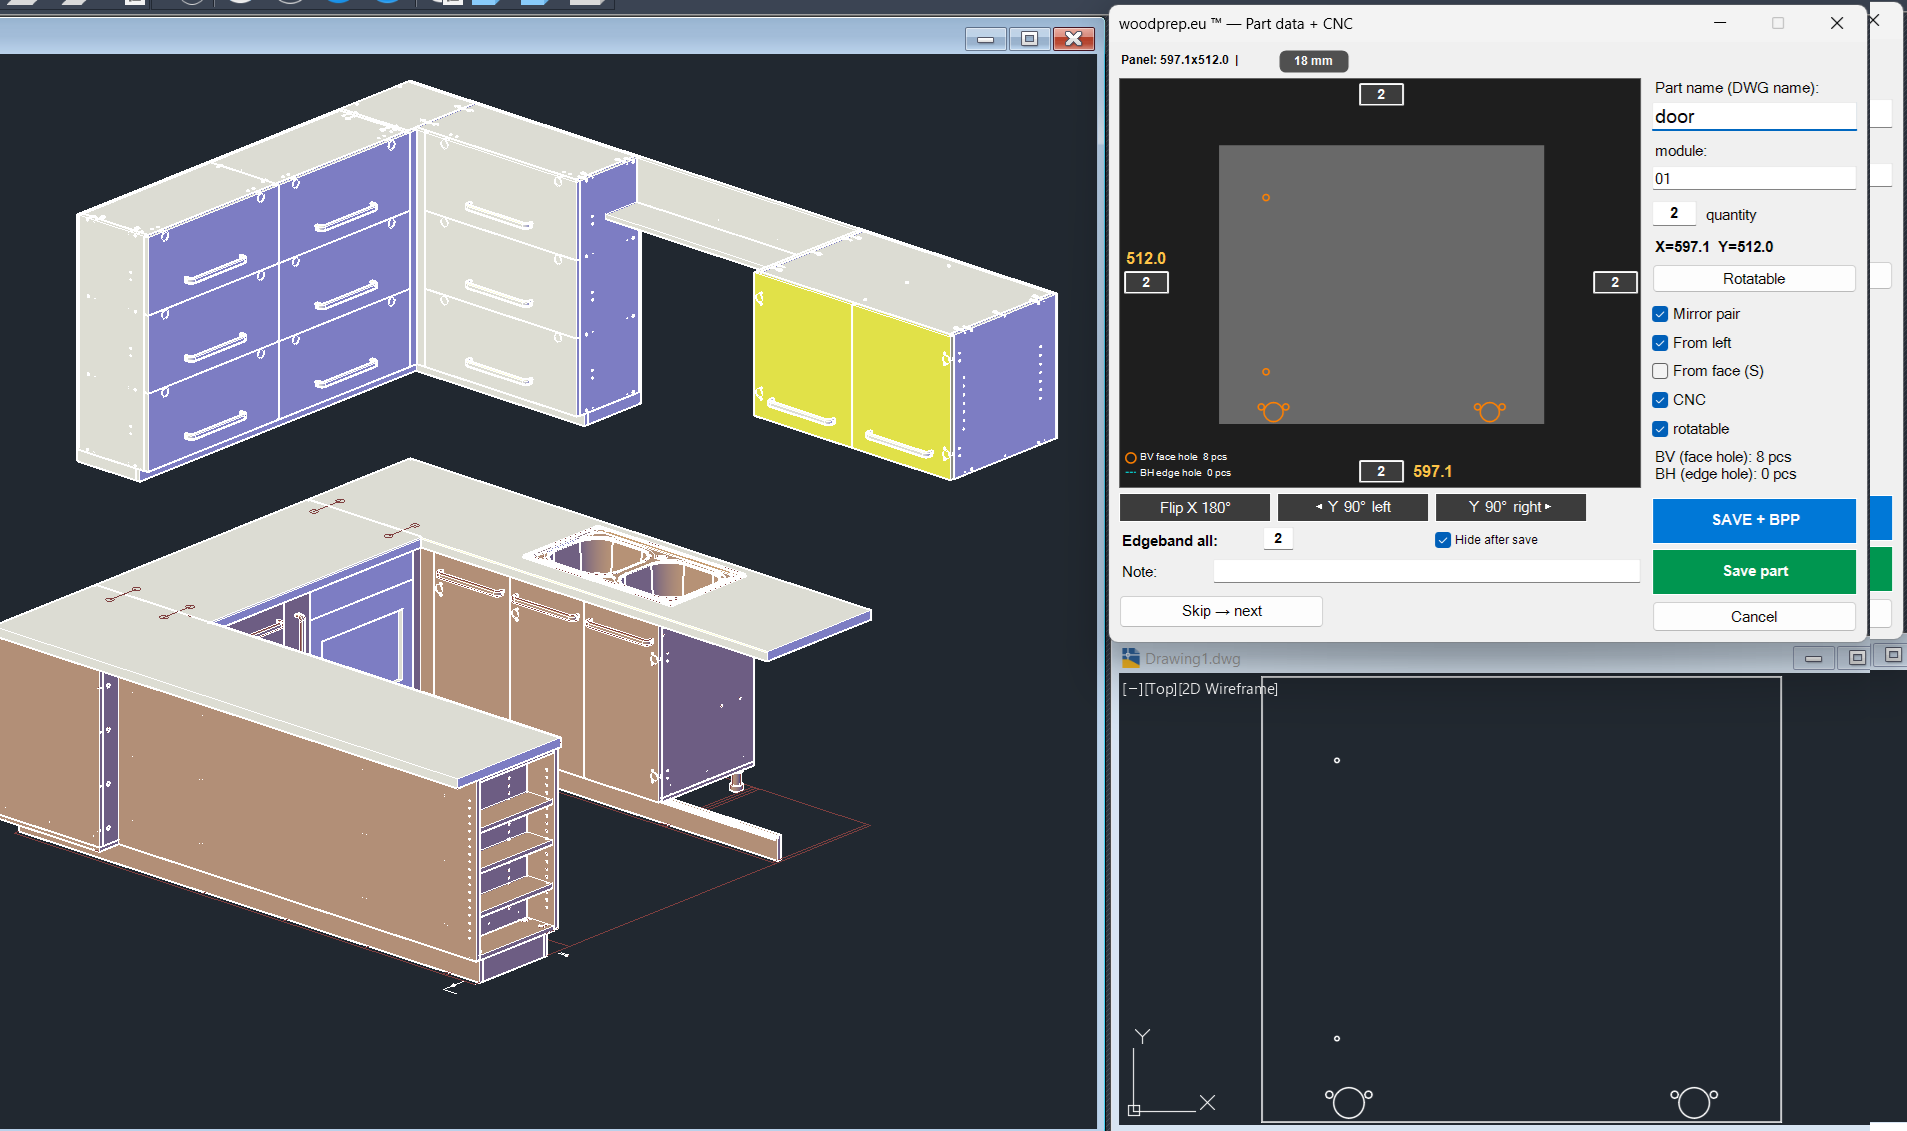
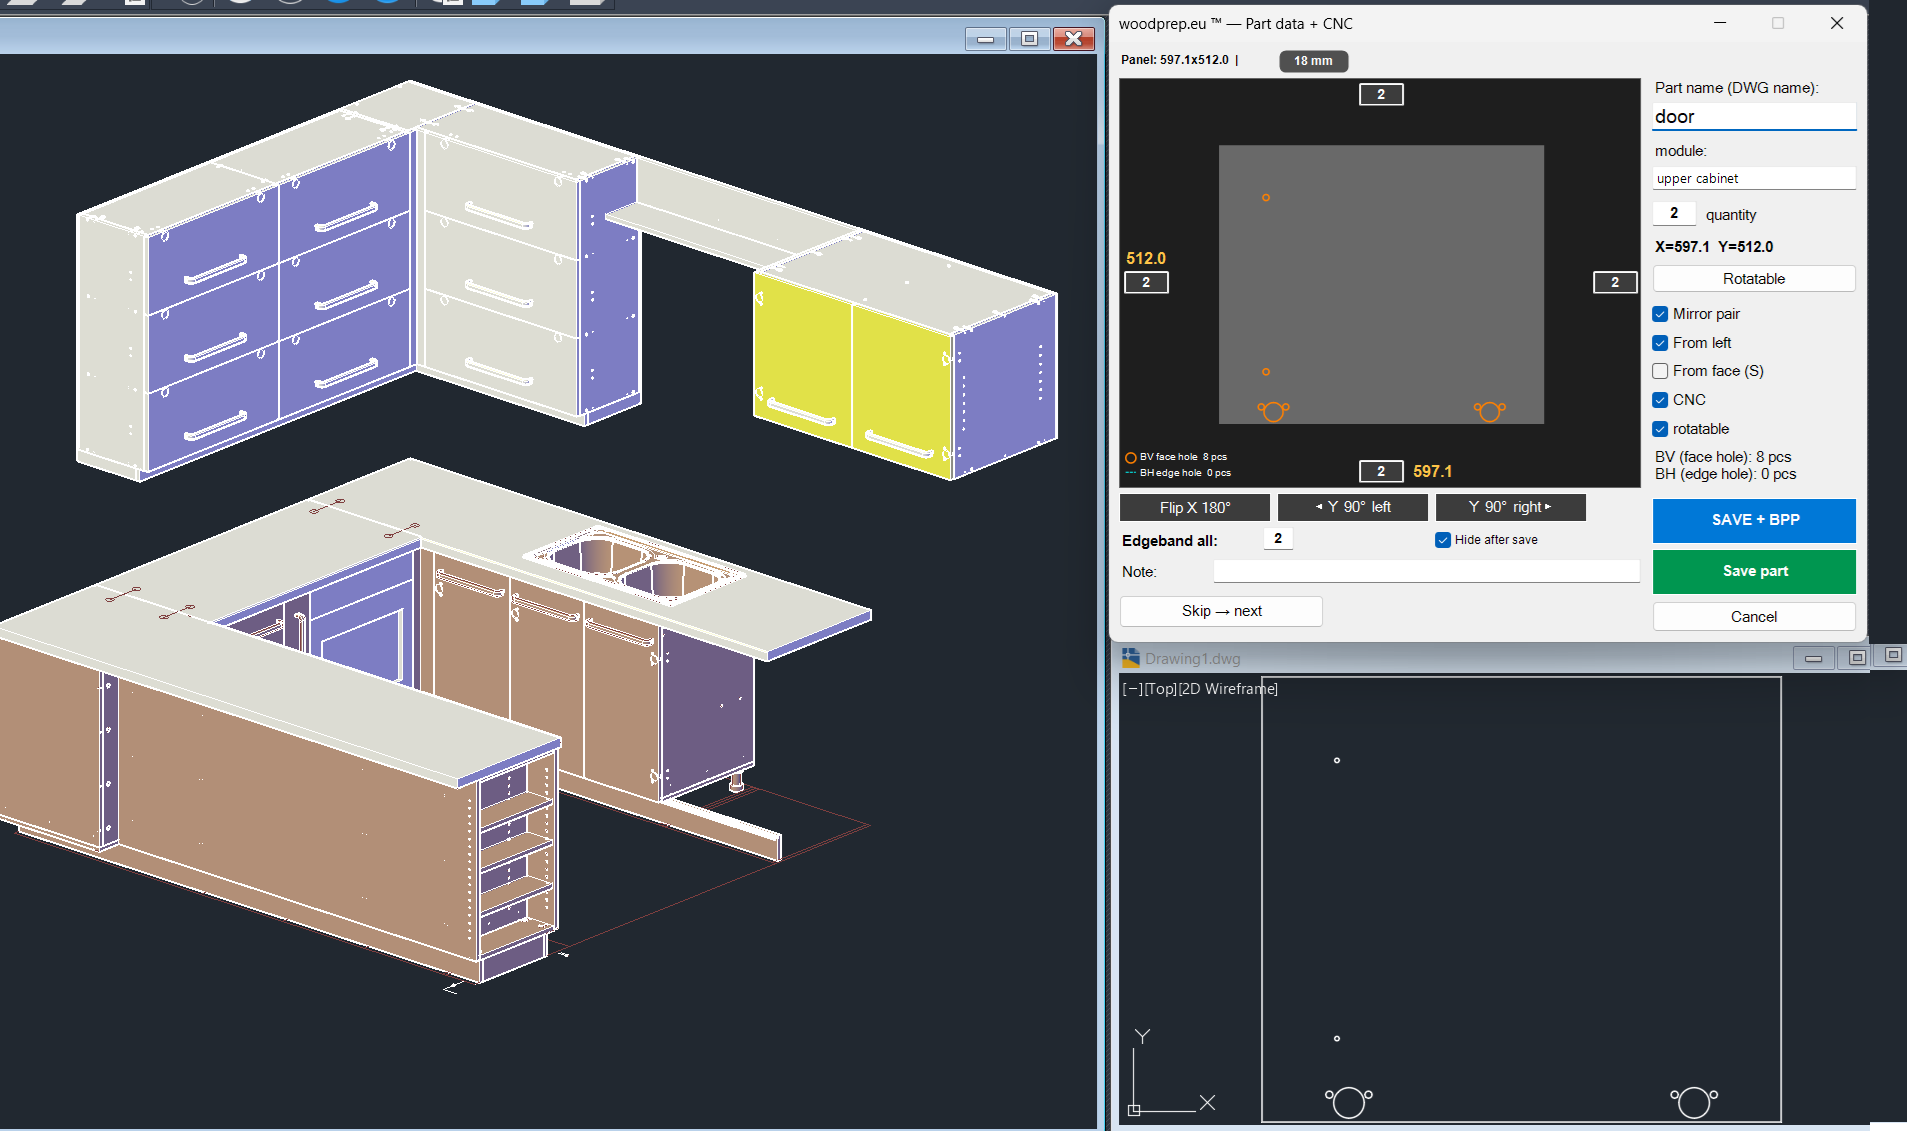
j

Changed region(s): [[0.9591, 0.0, 1.0, 0.588], [0.8663, 0.1547, 0.8972, 0.1857]]

diff --git a/story.html b/story.html
@@ -71,7 +71,11 @@ nav{position:sticky;top:0;z-index:20;display:flex;justify-content:space-between;
 .l-pick img.proc{inset:6px;width:calc(100% - 12px);height:calc(100% - 12px)}
 .l-pick .ee26pop{filter:drop-shadow(0 20px 40px rgba(0,0,0,.6))}
 .l-pick .excel{background:#fff;border-radius:6px;transition:opacity .35s}
-.l-pick img.wide{height:auto;top:50%;bottom:auto;transform:translateY(-50%)}
+.l-pick .xlbox{position:absolute;left:18px;right:18px;top:50%;transform:translateY(-50%);opacity:0;background:#fff;border-radius:6px;transition:opacity .35s}
+.l-pick .xlbox img{position:relative;inset:auto;display:block;width:100%;height:auto;opacity:1}
+.l-pick .xlbox img.xlfull{position:absolute;left:0;top:0;clip-path:inset(0 0 41.3% 0)}
+.xlclick{position:absolute;left:63.6%;top:-1.5%;width:14.9%;height:14.5%;border:3px solid #ffd23f;border-radius:12px;
+     opacity:0;transform:scale(1.6);transition:opacity .25s, transform .25s;box-shadow:0 0 18px rgba(255,210,63,.6)}
 .l-pick .proc{transition:opacity .35s}
 .l-photo{background:#0b0b12}
 .l-photo img{position:absolute;inset:0;width:100%;height:100%;object-fit:contain;opacity:0;transition:opacity .35s}
@@ -169,13 +173,17 @@ nav{position:sticky;top:0;z-index:20;display:flex;justify-content:space-between;
         <!-- 2026-11-16: CABINET-beállítás (006) → feldolgozás: az ajtók sárgán, EE26 (007)
              → név + élzárás „2" (008) → Excel. A 007/008 fejlécéből az ügyfélnév kitakarva. -->
         <!-- „végleges" (2026-11-16 este): 011 = CABINET „upper cabinet" → 007 → 008 → 012 (a mentett
-             lapok eltűnnek a rajzból) → 013 (csak ennek a szekrénynek az Excelje) → a teljes konyha -->
+             lapok eltűnnek a rajzból) → 013 (csak ennek a szekrénynek az Excelje) -->
         <img class="ee26pop" src="story/cabinet-beallitas-felso.png" alt="CABINET settings: module name, find identical parts, mirror pairs, select the parts">
         <img class="proc" src="story/feldolgozas-1.png" alt="Processing: both doors highlighted as a mirror pair, the WoodPrep part window">
         <img class="proc" src="story/feldolgozas-2.png" alt="Part name and edge banding entered: 2 mm ABS on all four edges">
         <img class="proc" src="story/feldolgozas-elfogyo.png" alt="Saved parts disappear from the drawing: only the vertical divider of the cabinet is left">
-        <img class="excel wide" src="story/szekreny-excel.png" alt="The Excel cutting list of this cabinet: 7 rows with edge banding">
-        <img class="excel" src="story/konyha-excel.png" alt="The Excel cutting list of the whole kitchen">
+        <!-- üres szabásjegyzék → kattintás az Import Parts gombra → a sorok egyenként betöltődnek -->
+        <div class="excel xlbox">
+          <img src="story/szekreny-excel-ures.png" alt="The empty WoodPrep cutting list in Excel">
+          <img class="xlfull" src="story/szekreny-excel.png" alt="The Excel cutting list of this cabinet: 7 rows with edge banding">
+          <span class="xlclick"></span>
+        </div>
         <span class="tag" id="pickTag">Select a cabinet in the drawing</span>
       </div>
       <!-- 5. A beépítés fotói -->
@@ -296,6 +304,7 @@ nav{position:sticky;top:0;z-index:20;display:flex;justify-content:space-between;
   pickRing.style.strokeDasharray = ringLen;
   const ee26 = L.pick.querySelector('.ee26pop');
   const excels = [...L.pick.querySelectorAll('.excel')];
+  const xlFull = L.pick.querySelector('.xlfull'), xlClick = L.pick.querySelector('.xlclick');
   const ribbons = [...L.miss.querySelectorAll('.ribbon')], missTag = document.getElementById('missTag');
   const procs = [...L.pick.querySelectorAll('.proc')];
   const pickTag = document.getElementById('pickTag');
@@ -357,14 +366,20 @@ nav{position:sticky;top:0;z-index:20;display:flex;justify-content:space-between;
       ee26.style.transformOrigin = (rr.left + rr.width / 2 - lr.left - 18) + 'px ' + (rr.top + rr.height / 2 - lr.top - 18) + 'px';
       ee26.style.transform = 'scale(' + (0.08 + 0.92 * pop) + ')';
       // c) feldolgozás: ajtók sárgán, név + élzárás, a mentett lapok eltűnnek (0.28–0.7),
-      // d) Excel: csak ez a szekrény (0.7–0.86), aztán a teljes konyha (0.86–)
-      const ph = [0.28, 0.42, 0.56, 0.7, 0.86].filter(t => local >= t).length;
+      // d) Excel: csak ez a szekrény (0.76–); a teljes konyha (magyar) kivéve
+      const ph = [0.28, 0.44, 0.6, 0.76].filter(t => local >= t).length;
       ee26.style.opacity = ph === 0 ? pop : 0;
       procs.forEach((im, i) => im.style.opacity = ph === i + 1 ? 1 : 0);
       excels.forEach((im, i) => im.style.opacity = ph === i + 4 ? 1 : 0);
+      // Excel: az üres listán kör az Import Parts gombra (0.76–0.84), kattintás, a 7 sor egyenként betöltődik
+      const xlT = clamp((local - 0.76) / 0.2, 0, 1);
+      const clickOn = xlT > 0.05 && xlT < 0.5;
+      xlClick.style.opacity = clickOn ? 1 : 0;
+      xlClick.style.transform = clickOn ? (xlT > 0.3 ? 'scale(0.92)' : 'scale(1)') : 'scale(1.6)';
+      const rows = Math.min(7, Math.floor(clamp((xlT - 0.3) / 0.6, 0, 1) * 7.99));
+      xlFull.style.clipPath = 'inset(0 0 ' + (Math.max(0, 402 - 236 - rows * 24) / 402 * 100).toFixed(2) + '% 0)';
       pickSvg.style.opacity = ph === 0 ? 1 - 0.65 * pop : 0;
-      pickTag.textContent = ph === 5 ? '…and the whole kitchen: 23 rows, from the same drawing'
-                          : ph === 4 ? 'Cutting list of this cabinet · 7 rows, edge banding included'
+      pickTag.textContent = ph === 4 ? (xlT < 0.3 ? 'The empty cutting list · click Import Parts' : 'Cutting list of this cabinet · 7 rows, edge banding included')
                           : ph === 3 ? 'Saved parts vanish from the drawing — nothing gets skipped'
                           : ph === 2 ? 'Name + edge banding: 2 = 2 mm ABS on all four edges → Save + BPP'
                           : ph === 1 ? 'Part by part · both doors found as a mirror pair, quantity 2'
